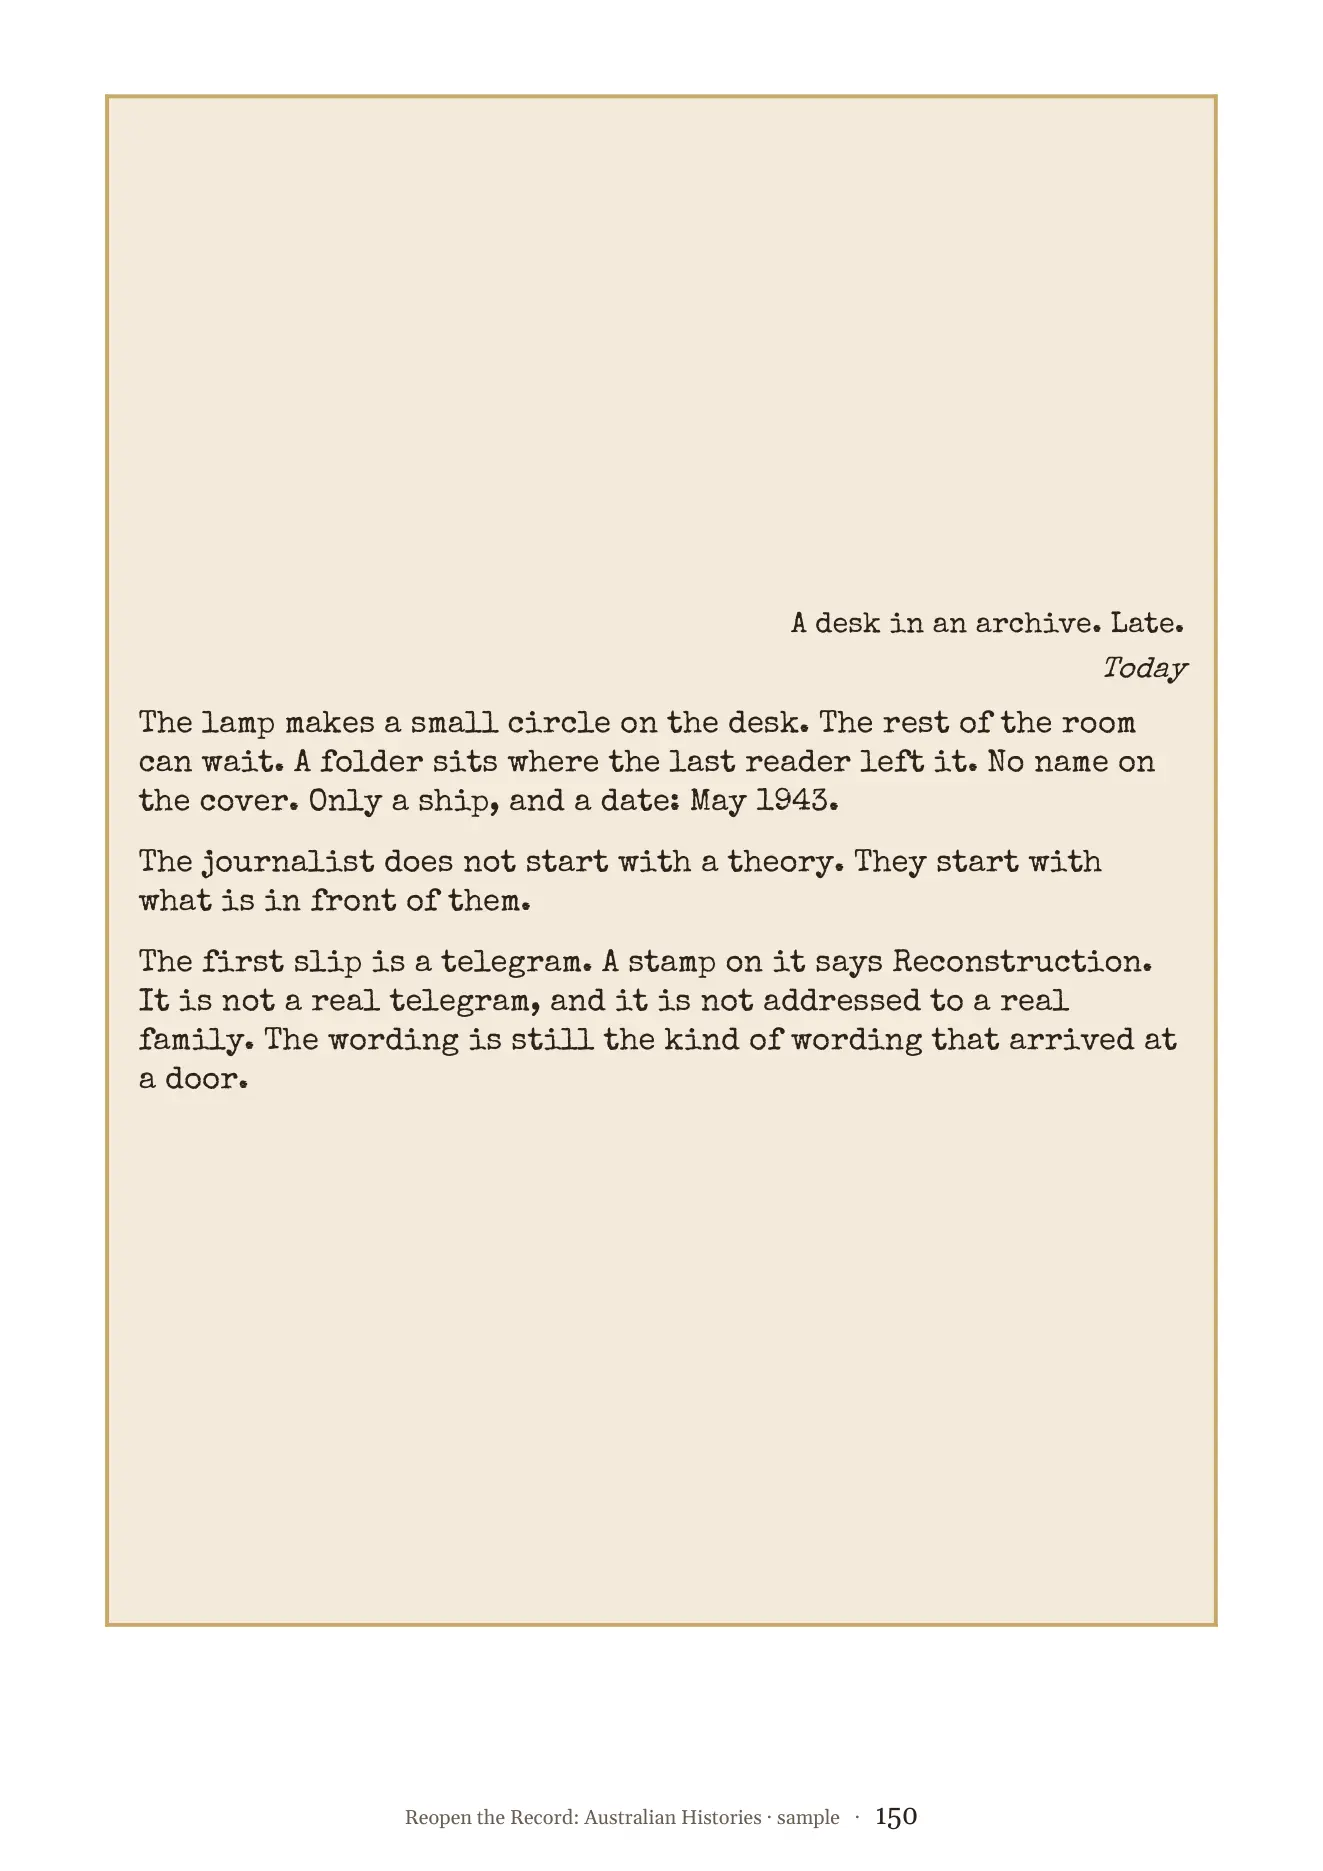
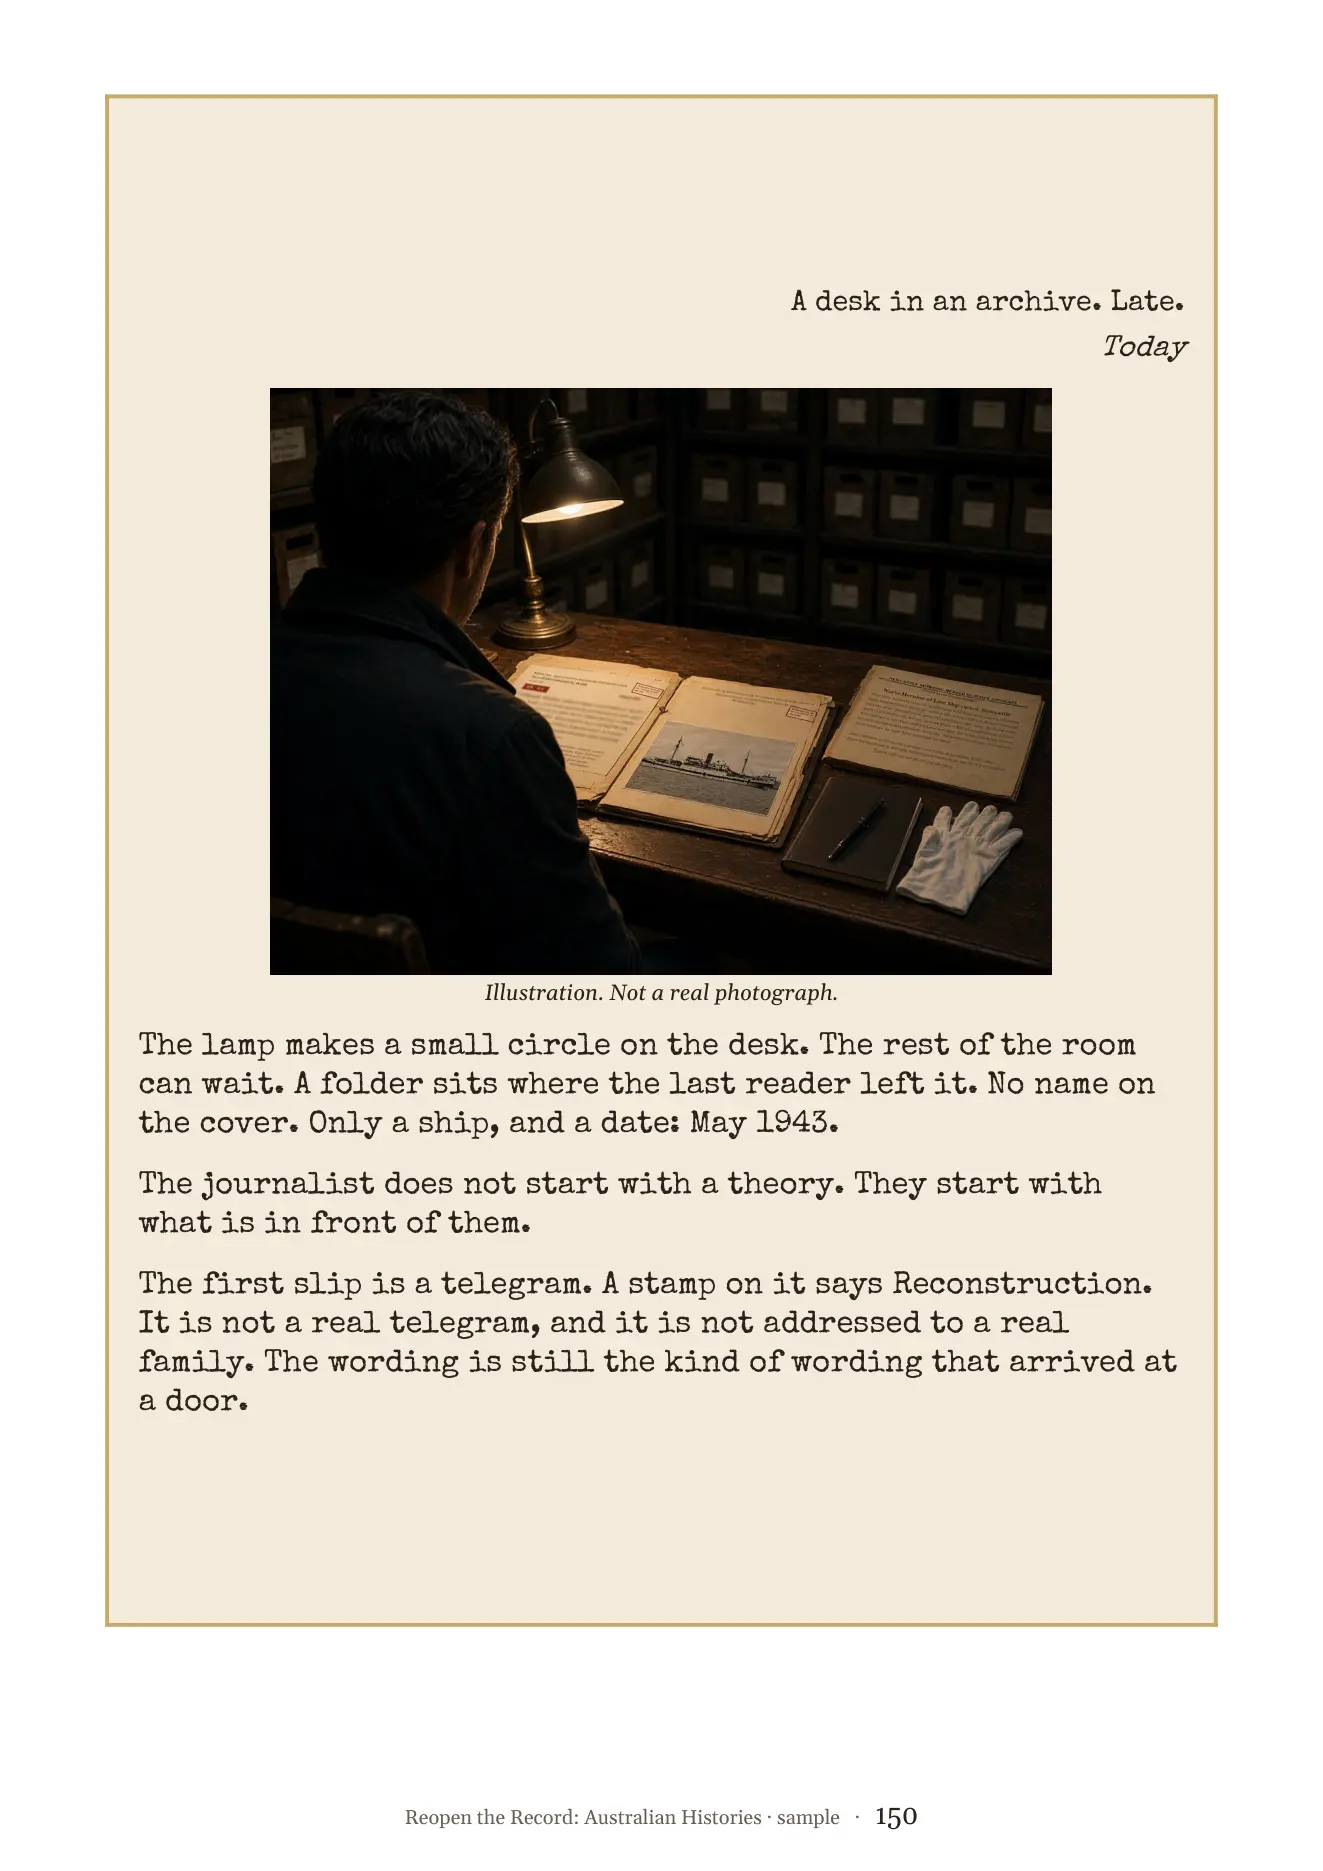
Add the Case 11 journalist illustration to the typographic opener page.
Page count stays 193. The picture is captioned as an illustration, not a real photograph.

Changed region(s): [[0.093, 0.155, 0.8987, 0.775], [0.6508, 0.62, 0.8367, 0.651]]

diff --git a/assets/data.js b/assets/data.js
@@ -1090,7 +1090,7 @@ window.BOOK = {
     "147": "Page 147. Case 10. Reopen the Record: Australian Histories · sample · 147 CASE 10 · YEAR 9 · THE BATTLE OF BROKEN HILL, 1915 · TEACHER NOTE Teacher Note This note is for the teacher. It is not a",
     "148": "Page 148. Case 10. Reopen the Record: Australian Histories · sample · 148 Pictures No portraits of Kenny, Miller, Gool or Abdullah are used. Silhouettes are labelled as silhouettes, not likenesses. Police or morgue photographs, if they exist, are not",
     "149": "Case 11 envelope: Sister Ellen Savage and the hospital ship Centaur, 1943, Year 10.",
-    "150": "Case 11 typographic opener: a present-day journalist at a desk in an archive, late, looking at a folder dated May 1943, and turning first to a reconstructed telegram.",
+    "150": "Case 11 typographic opener: an AI-generated illustration of a journalist at a lamp-lit archive desk, captioned Illustration, not a real photograph, above a short present-day scene dated Today.",
     "151": "Case 11 exhibit: a reconstructed 1943 Postmaster-General’s casualty telegram, clearly labelled Reconstruction, addressed only to the next of kin of a nursing sister, not to a named family, with the journalist’s reaction beneath it.",
     "152": "Case 11 exhibit: a creased print of AWM 302796, the hospital ship Centaur in Sydney, 1943, public domain, with the Memorial’s own caption on the back and the journalist’s reaction beneath it.",
     "153": "Case 11 exhibit: a reconstructed 20 May 1943 radio bulletin using only wording from the Advocate report of Curtin’s protest, with the journalist’s reaction beneath it.",
@@ -1285,7 +1285,7 @@ window.BOOK = {
     "147": "Page 147. Case 10. Reopen the Record: Australian Histories · sample · 147 CASE 10 · YEAR 9 · THE BATTLE OF BROKEN HILL, 1915 · TEACHER NOTE Teacher Note This note is for the teacher. It is not a student page. The user’s name is kept off the student pages and off the app. What’s true about the opene",
     "148": "Page 148. Case 10. Reopen the Record: Australian Histories · sample · 148 Pictures No portraits of Kenny, Miller, Gool or Abdullah are used. Silhouettes are labelled as silhouettes, not likenesses. Police or morgue photographs, if they exist, are not used. The QR train is an emblem, not a picture o",
     "149": "Case 11 envelope.",
-    "150": "Page 150. Case 11. Reopen the Record: Australian Histories · sample · 150 A desk in an archive. Late. Today The lamp makes a small circle on the desk. The rest of the room can wait. A folder sits where the last reader left it. No name on the cover. Only a ship, and a date: May 1943. The journalist ",
+    "150": "Page 150. Case 11. A desk in an archive. Late. Today. Illustration. Not a real photograph. The lamp makes a small circle on the desk. The rest of the room can wait. A folder sits where the last reader left it. No name on the cover. Only a ship, and a date: May 1943. The journalist does not start wi",
     "151": "Page 151. Case 11. Exhibit. Reconstruction. A wartime casualty telegram, modelled on official Army wording of the period. It is not a real telegram, and it is not addressed to a real family. Commonwealth of Australia. Postmaster-General’s Department. TELEGRAM. Office: Melbourne. Delivery: Personal.",
     "152": "Page 152. Case 11. Exhibit. AWM 302796. Copyright expired — public domain. A creased print of the hospital ship in Sydney Harbour, 1943. The caption on the back is the Australian War Memorial’s own wording. Sydney, N.S.W., 1943. Port side view of the hospital ship Centaur. Note the prominent red cr",
     "153": "Page 153. Case 11. News bulletin. Reconstruction, not an original script. 20 May 1943. ON AIR. The Australian Government’s protest against the sinking of the hospital ship Centaur has been sent to the Japanese Government through Switzerland. The Prime Minister (Mr. Curtin) stated emphatically to-da",
